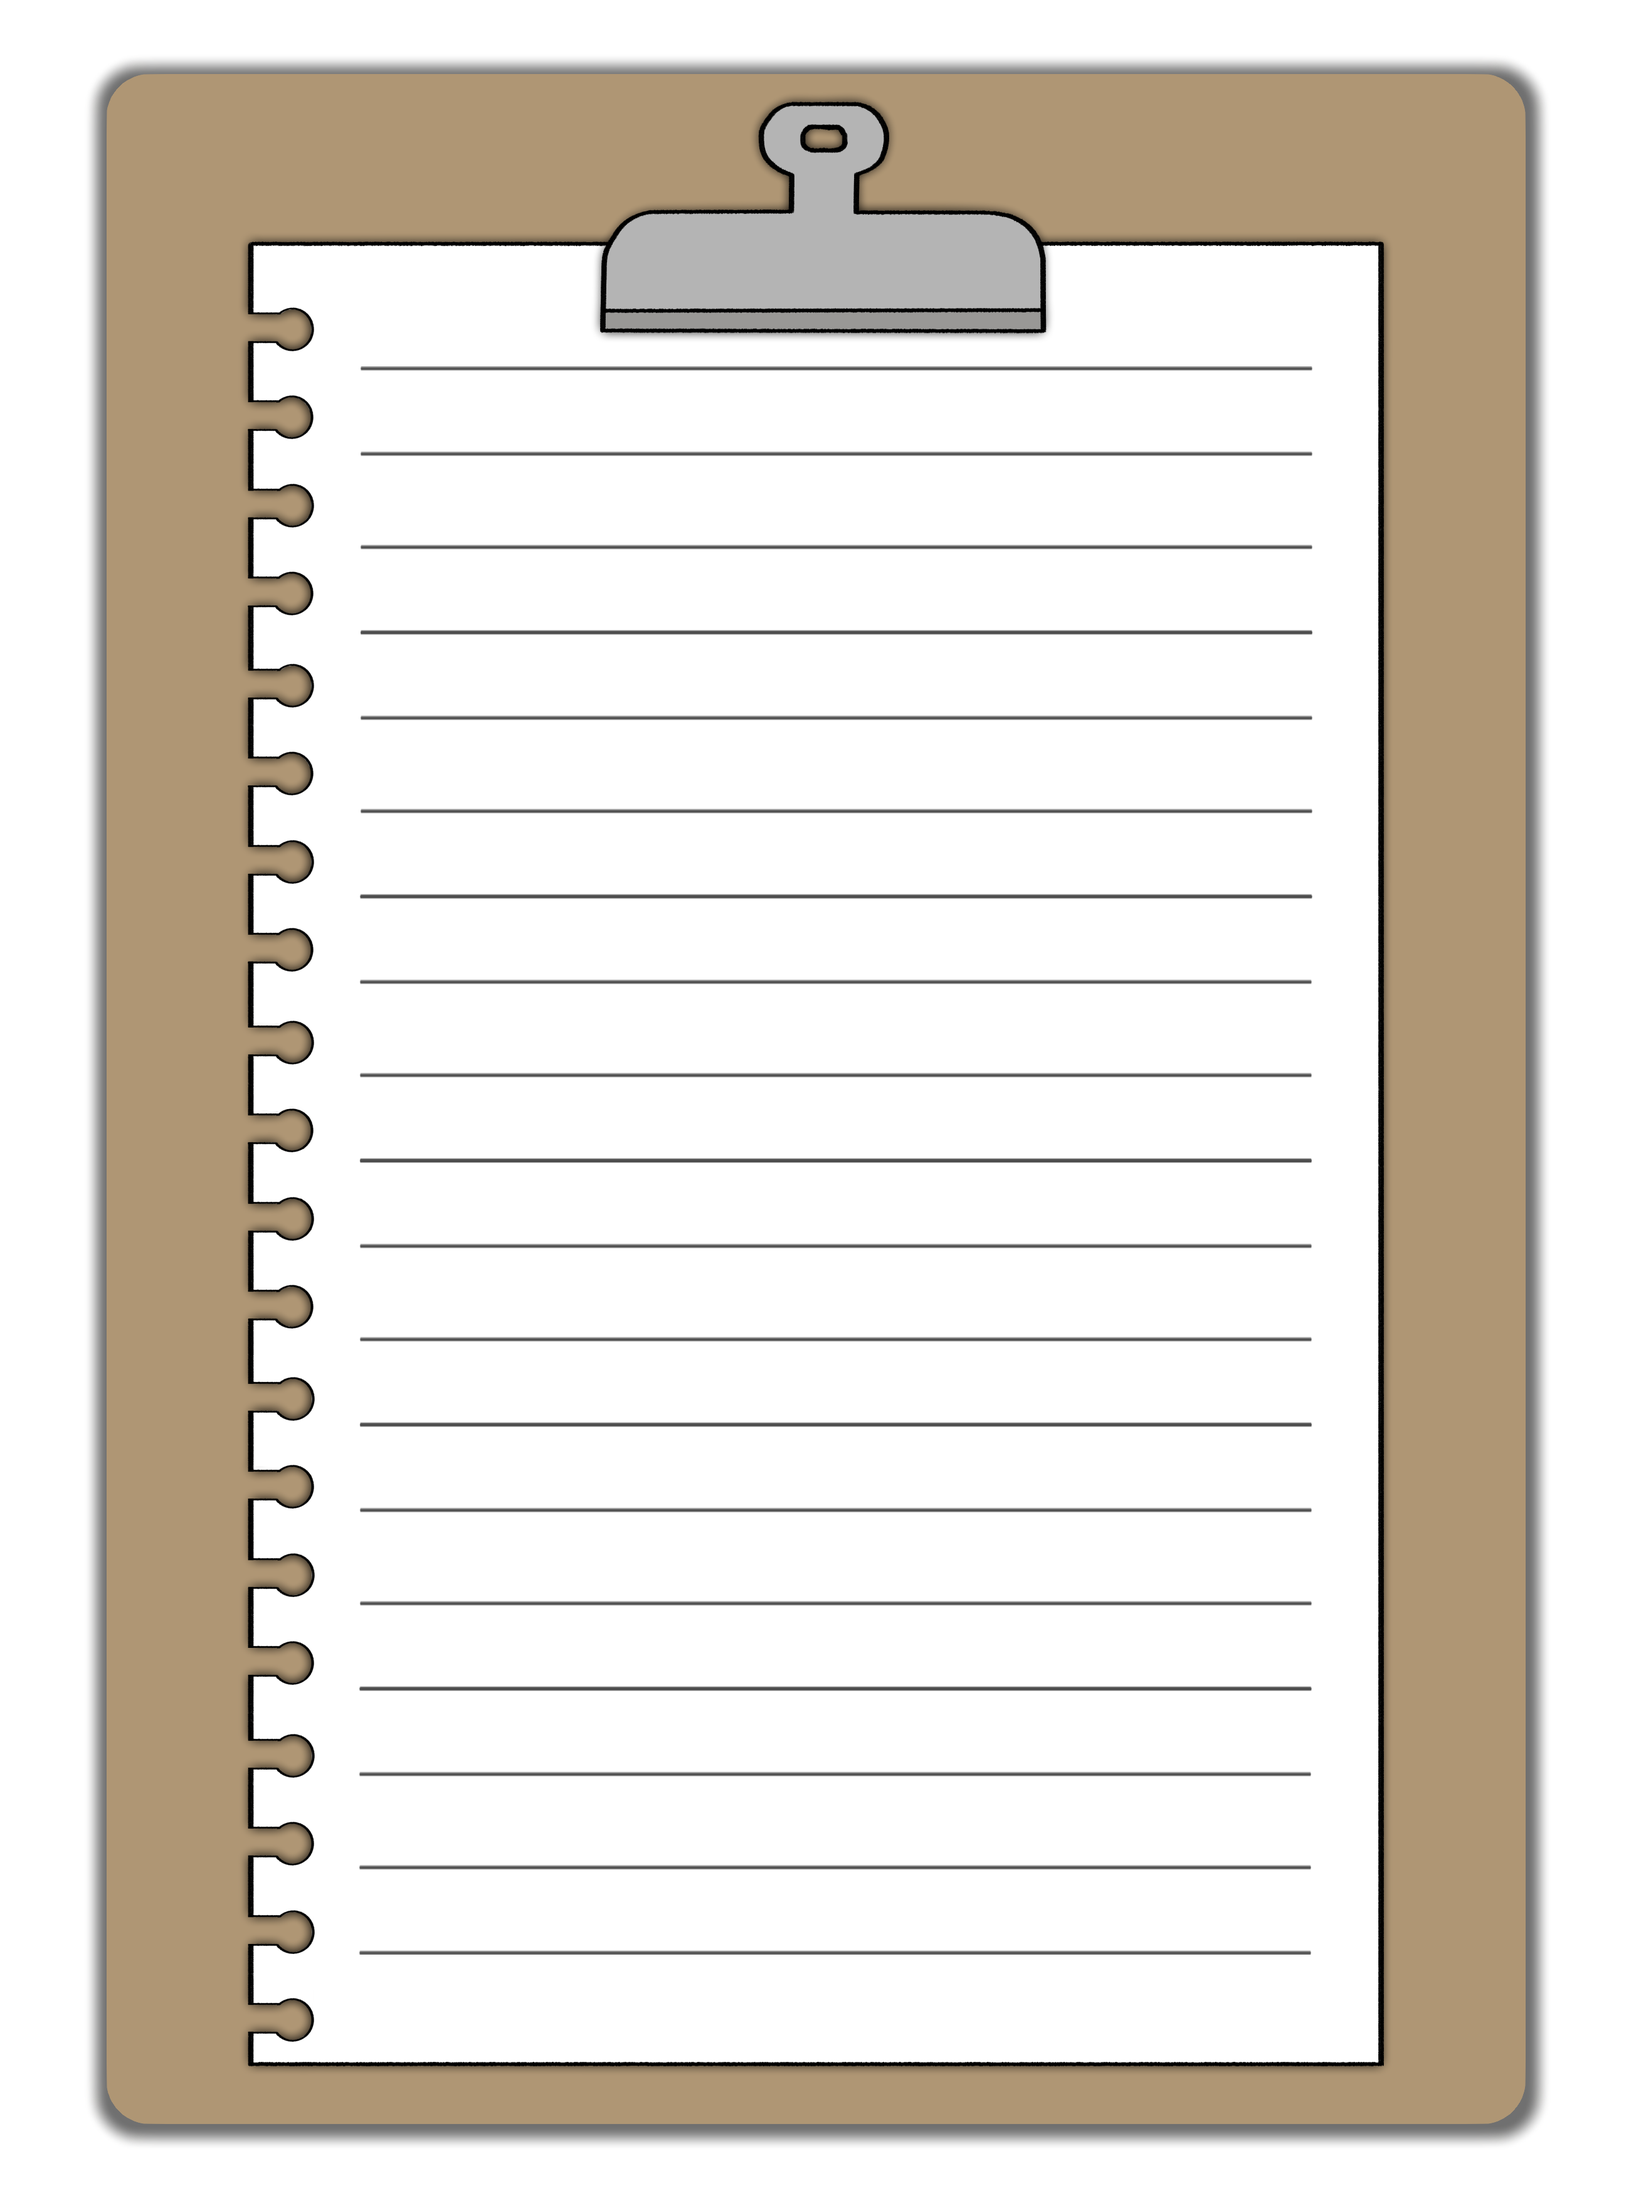
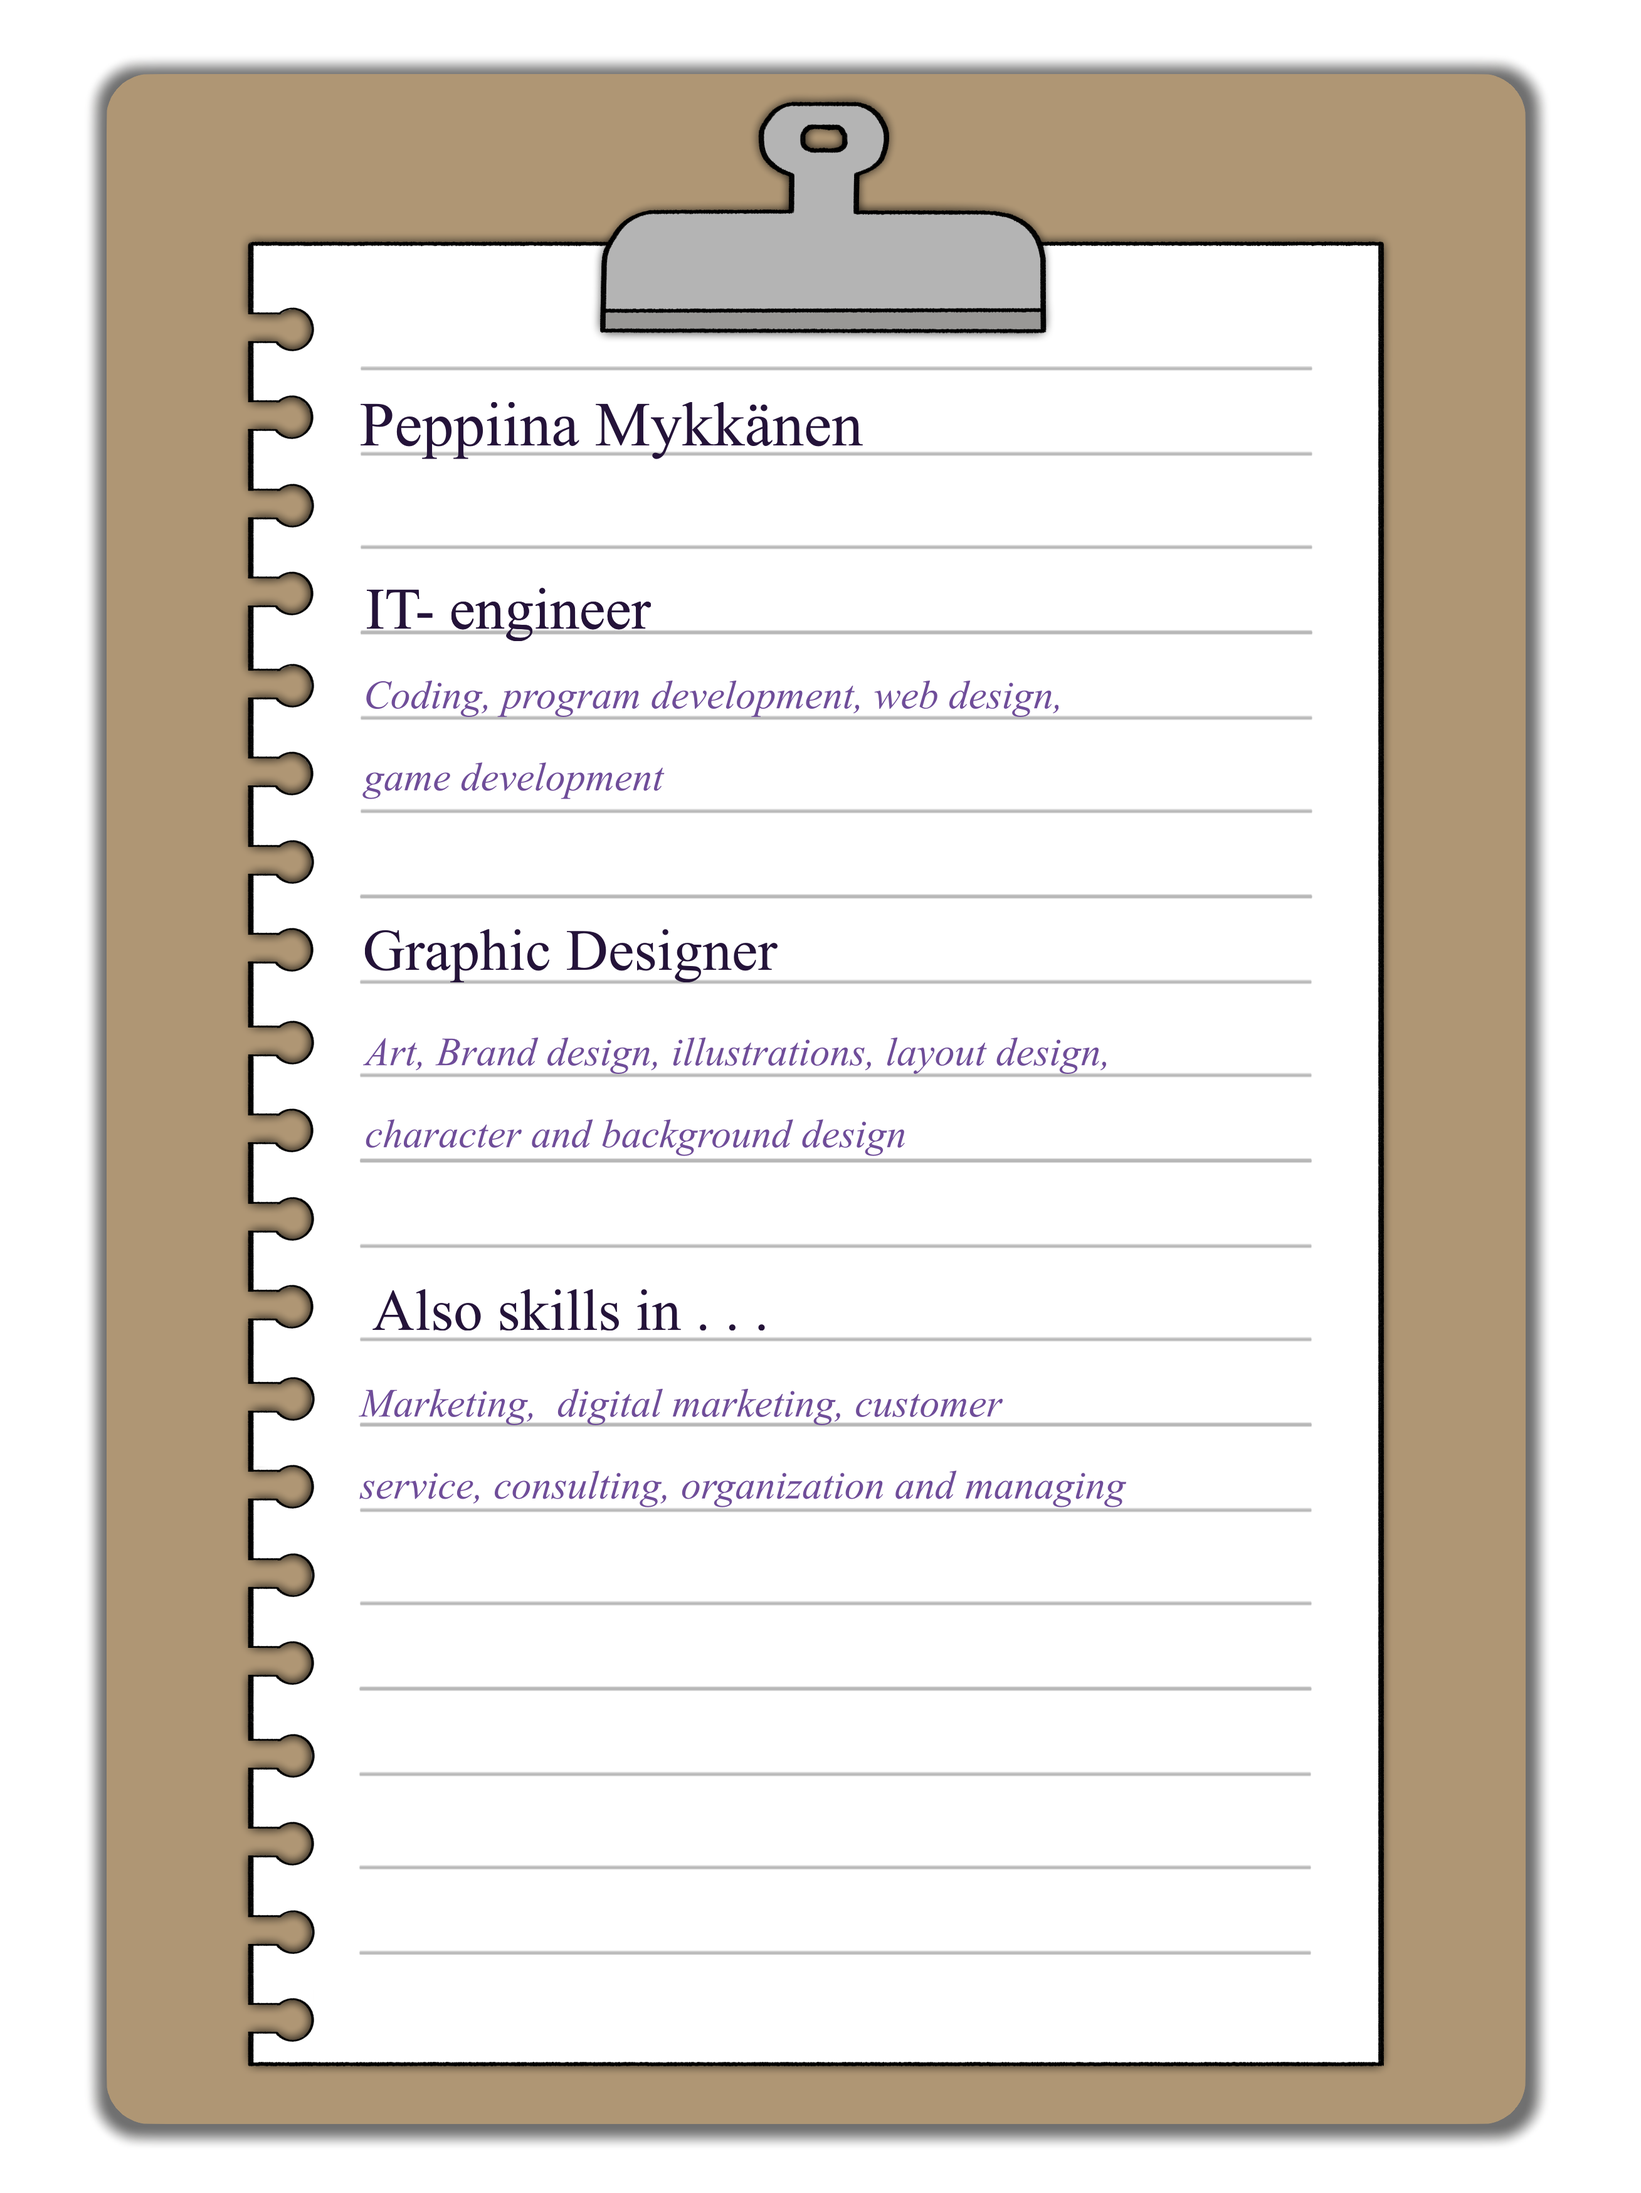
Clean about me to pngs

diff --git a/About_me.html b/About_me.html
@@ -24,30 +24,7 @@
     <button class="openbtn" onclick="openNav()">☰</button>  
    <!-- ------ -->
     <img class="id-card" src="images/about_me/Id_card%20(1).png"/>
-     
-      <img class="clipboard" src="images/about_me/info_file.png"/>
-      <!-- TEXT -->
-      <div style="width:15%; left:12%; top:25%; position: absolute; transform: rotate(-13deg); transform-origin: top left; color: #4D1E9E; font-size: 1.7vw; font-family: JejuHallasan; font-weight: 400; line-height: 64.12px; word-wrap: break-word">
-      Peppiina Mykkänen 
-      </div>
-      <div style="width:15%; left:13%; top:36%; position: absolute; transform: rotate(-13deg); transform-origin: top left; color: #4D1E9E; font-size: 1.7vw; font-family: JejuHallasan; font-weight: 400; line-height: 55.39px; word-wrap: break-word">
-      IT-engineer
-      </div>
-      <div style="width:25%; left:13.5%; top:42.5%; position: absolute; transform: rotate(-13deg); transform-origin: top left; color: #0C2D58; font-size: 1vw; font-family: JejuHallasan; font-weight: 400; line-height: 41.41px; word-wrap: break-word">
-      Coding, Program development, web desing, game development
-      </div> 
-      <div style="width:15%; left:15%; top:57%; position: absolute; transform: rotate(-13deg); transform-origin: top left; color: #4D1E9E; font-size: 1.7vw; font-family: JejuHallasan; font-weight: 400; line-height: 55.39px; word-wrap: break-word">
-      Graphic Designer
-      </div>
-      <div style="width:25%; left:16%; top:63.5%; position: absolute; transform: rotate(-13deg); transform-origin: top left; color: #0C2D58; font-size:1vw; font-family: JejuHallasan; font-weight: 400; line-height: 41.41px; word-wrap: break-word">
-      Art, Brand design, layout design
-      </div>
-      <div style="width:15%; left:17%; top:73%; position: absolute; transform: rotate(-13deg); transform-origin: top left; color: #4D1E9E; font-size: 1.7vw; font-family: JejuHallasan; font-weight: 400; line-height: 55.39px; word-wrap: break-word">
-      Also . . .
-      </div>
-      <div style="width:25%; left:18%; top:79%; position: absolute; transform: rotate(-13deg); transform-origin: top left; color: #0C2D58; font-size:1vw; font-family: JejuHallasan; font-weight: 400; line-height: 41.41px; word-wrap: break-word">
-      Skills in marketing, digital marketing, customer service and consulting
-      </div>
+    <img class="clipboard" src="images/about_me/info_file.png"/>
     
     <div class="back-button">
       <a href="index.html">
